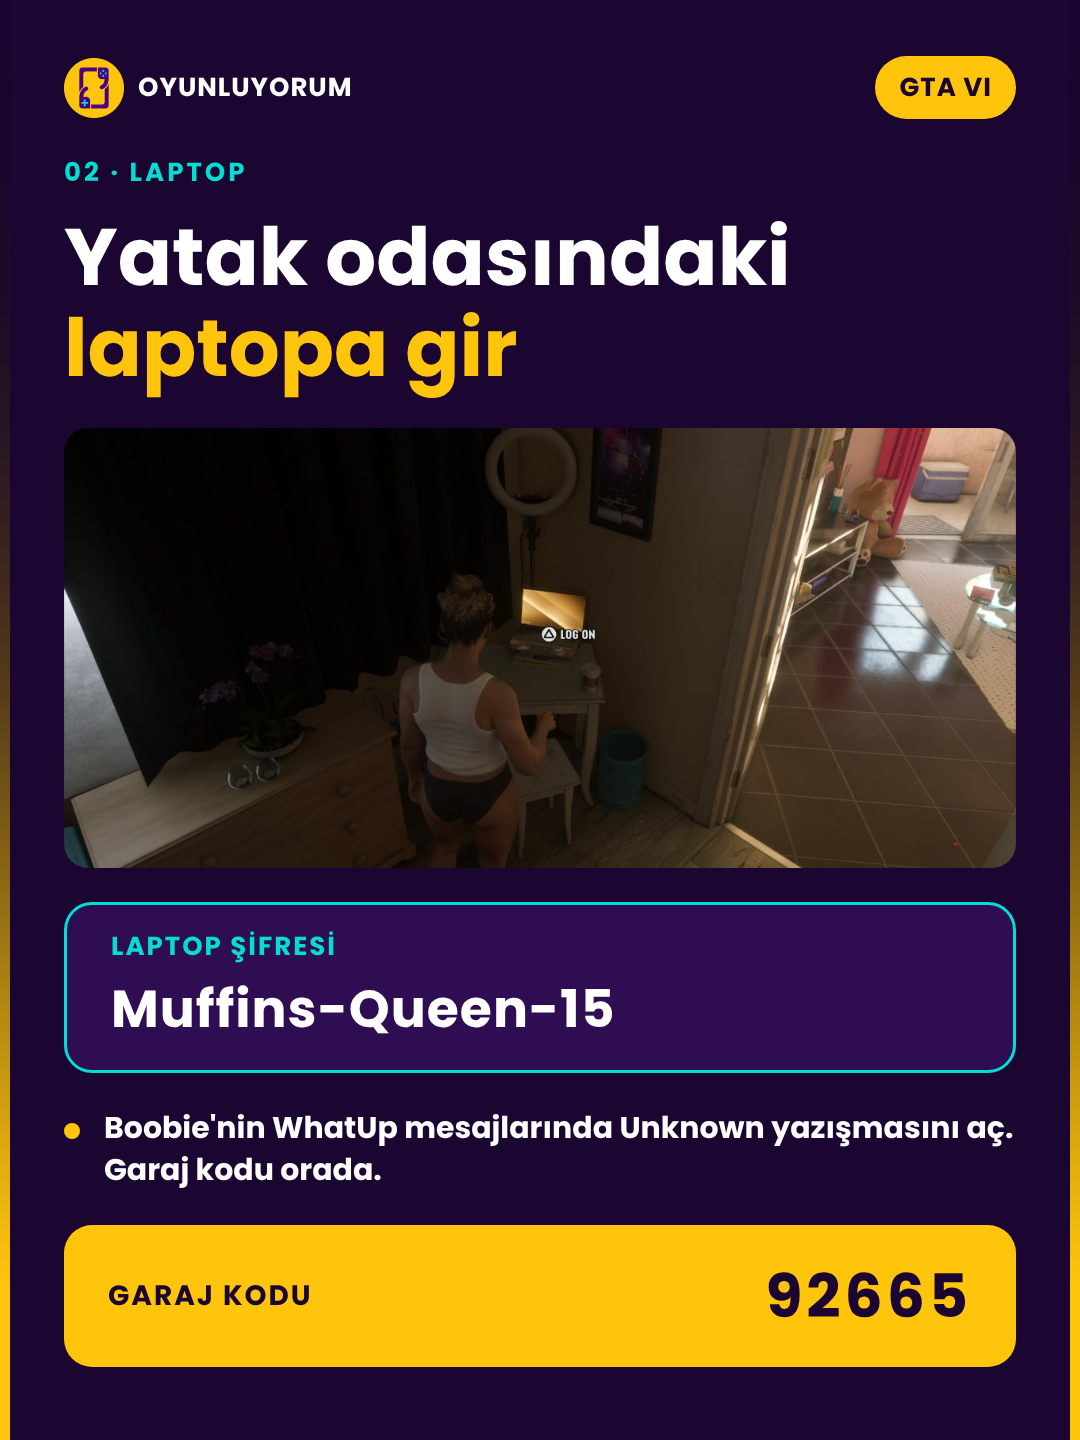
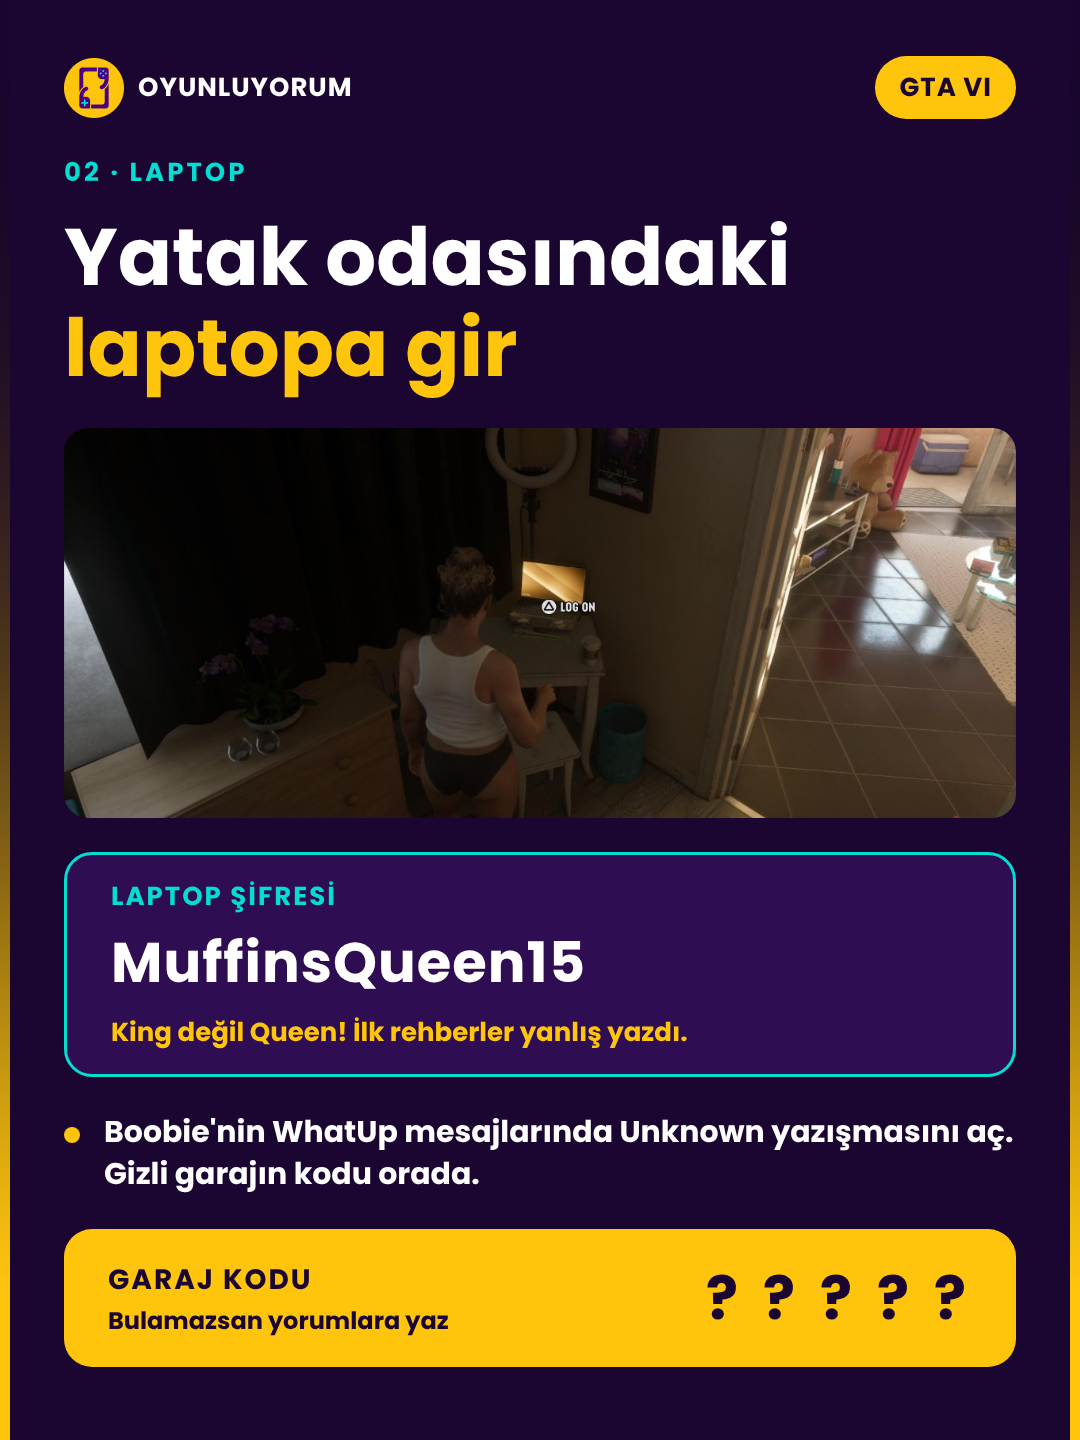
Growler karuseli: garaj kodu gizlendi, şifre MuffinsQueen15
Claude-Session: https://claude.ai/code/session_01Cfy9VgEXWVL5ta7MT2PpLs

diff --git a/posts/2026-11-21-gta6-growler/aciklama.md b/posts/2026-11-21-gta6-growler/aciklama.md
@@ -2,13 +2,14 @@
 
 Durum: hazır, henüz paylaşılmadı
 Boyut: 1080×1440, 5 slayt (PNG Instagram için, JPEG TikTok için)
-Kaynak: https://gamerant.com/gta-6-apartment-laptop-password-lapere-garage-growler-location/
+Kaynaklar: Game Rant, Screen Rant, Radio Times (şifre Radio Times'a göre MuffinsQueen15; ilk rehberler King yazmıştı)
+Not: Garaj kodu karuselde bilerek verilmedi, yorumlarda etkileşim için.
 
 ## Açıklama
 
 GTA 6'da bedava spor araba ve garaj kapmak ister misin? 🚗💗 3. bölümde taşındığın Boobie'nin dairesindeki laptopun şifresini çözünce Vanessa'nın Growler'ı ve La Perle'deki gizli garaj senin oluyor.
 
-Laptop şifresi, garaj kodu ve garajın yeri karuselde 👇 Normalde 29.450 dolarlık kayıt ücretini de ödemiyorsun.
+Laptop şifresi ve garajın yeri karuselde 👇 (Dikkat: King değil Queen!) Garaj kodunu Boobie'nin mesajlarında bul, bulamazsan yorumlara yaz. Normalde 29.450 dolarlık kayıt ücretini de ödemiyorsun.
 
 Kaydet, 3. bölümde lazım olacak. GTA 6 oynayan arkadaşına da gönder 📩
 
